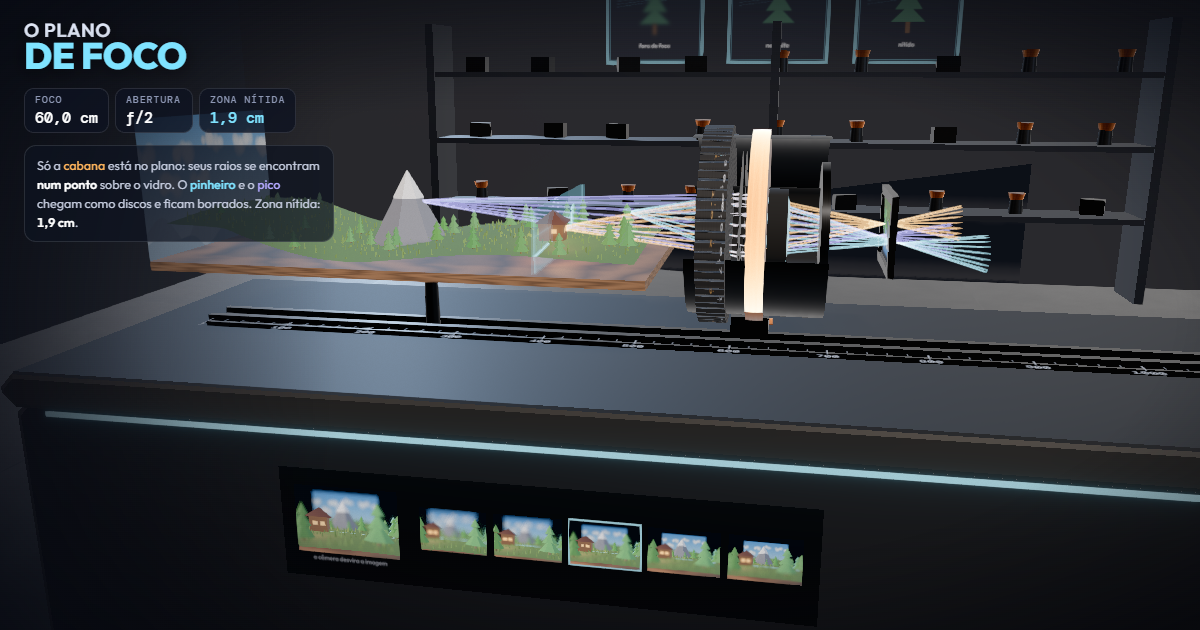
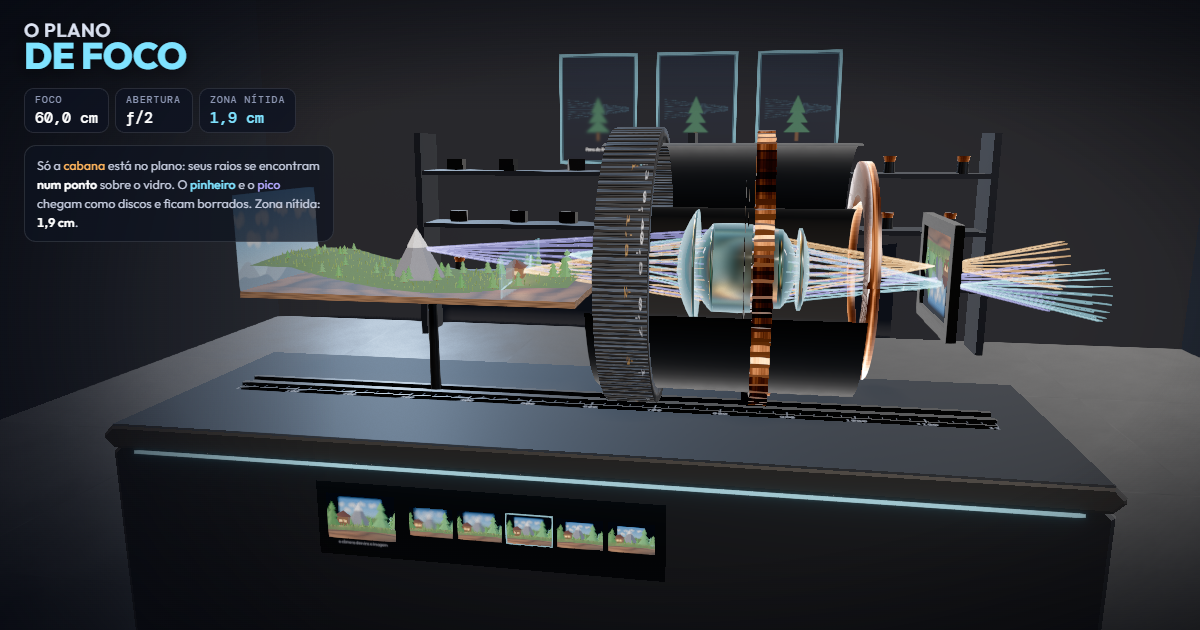
chore(lens-focus): pull back the three-quarter shot and refresh the share image

diff --git a/src/experiments/lens-focus/index.ts b/src/experiments/lens-focus/index.ts
@@ -971,8 +971,10 @@ export function createLensFocusExperiment(): Experiment {
           id: 'lens-three-quarter',
           label: { 'pt-BR': 'Objetiva, três quartos', en: 'Lens, three-quarter' },
           // Do lado do objeto: é de lá que se vê o elemento frontal.
-          position: { x: lensCenterX - 0.95, y: origin.y + 0.5, z: origin.z + 1.2 },
-          target: { x: lensCenterX, y: origin.y, z: origin.z },
+          // Afastada o bastante para o anel de foco, que no modo explodido
+          // vai para a frente, não tomar o primeiro plano.
+          position: { x: lensCenterX - 1.15, y: origin.y + 0.6, z: origin.z + 1.75 },
+          target: { x: lensCenterX + 0.05, y: origin.y - 0.02, z: origin.z },
           fov: 34,
         },
         {
